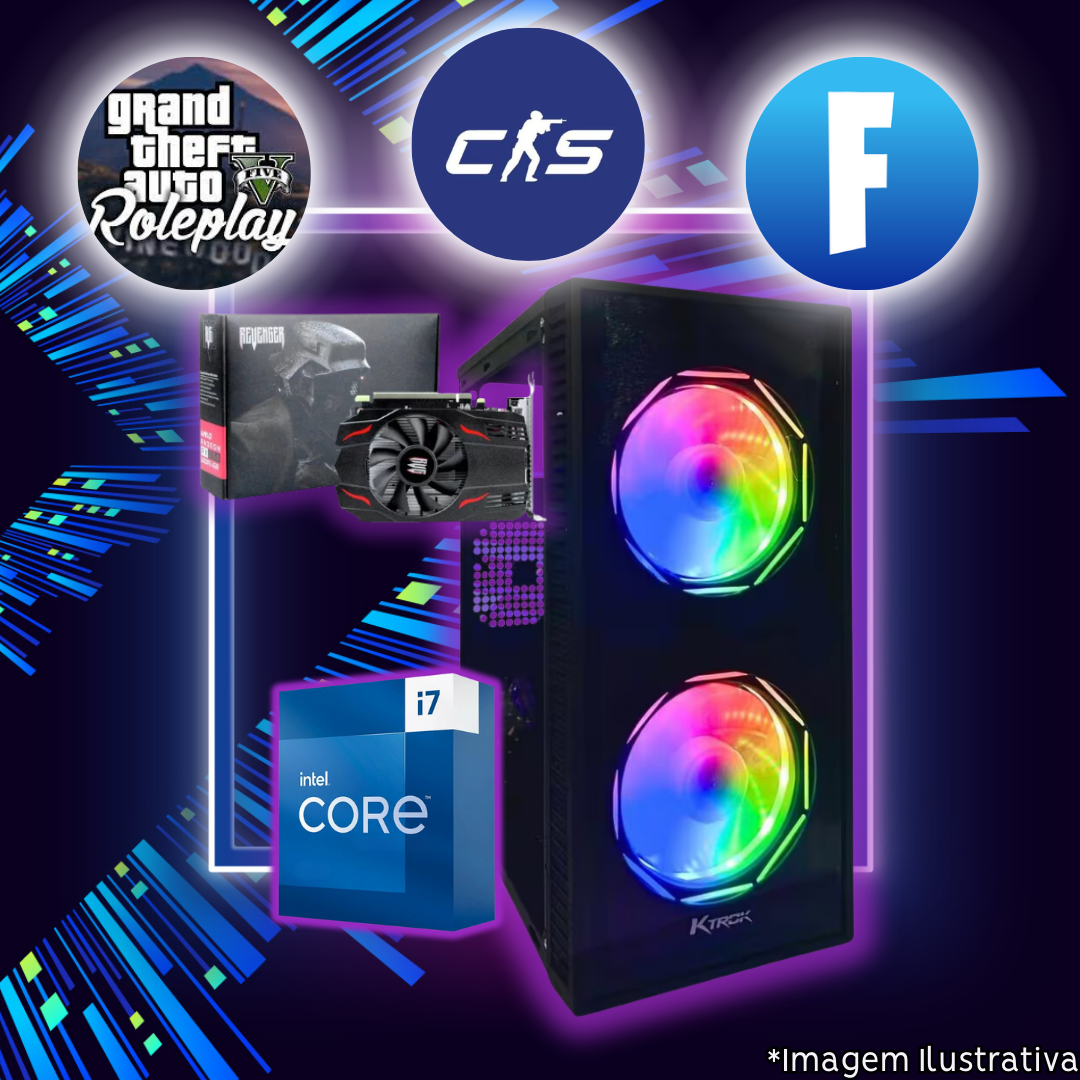
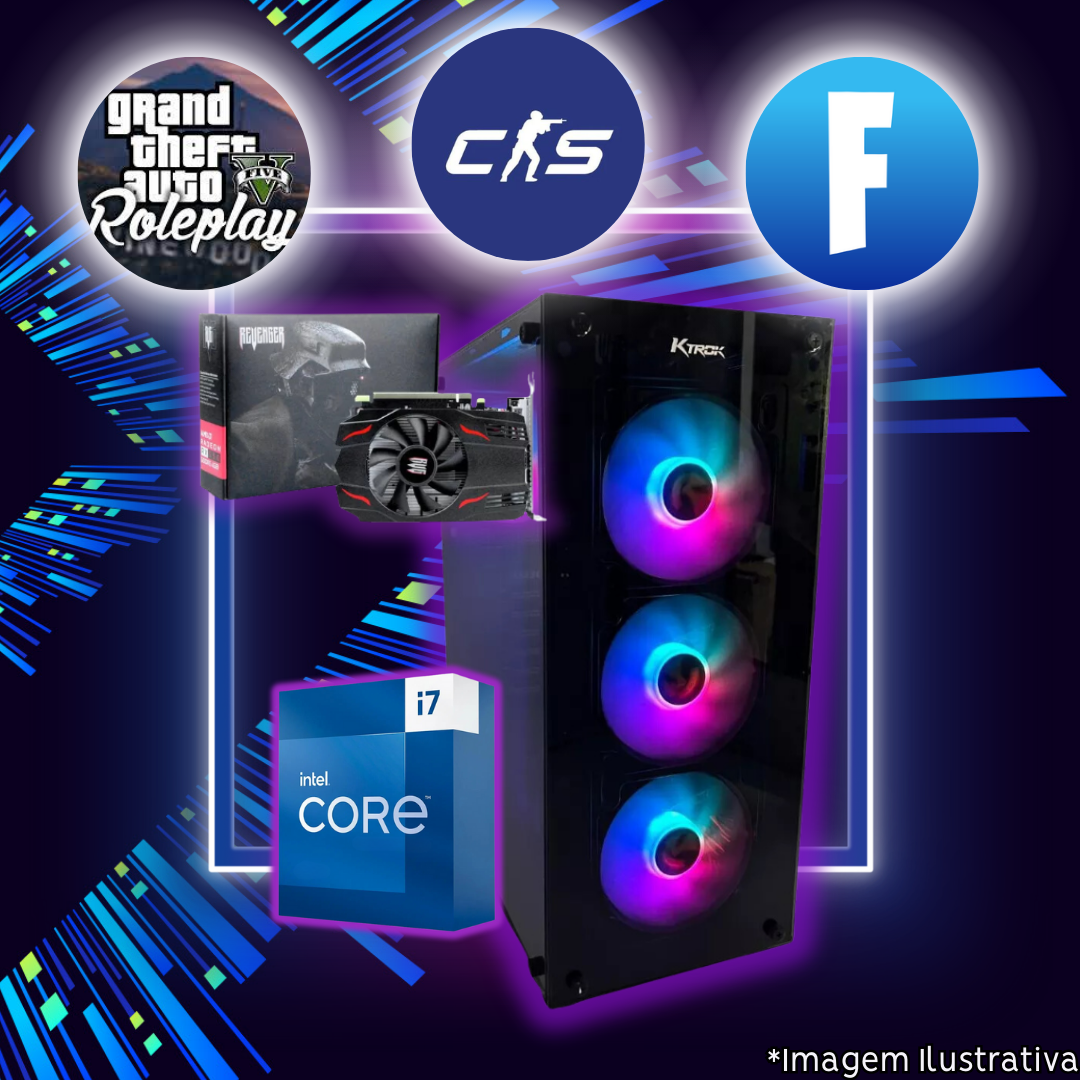
PC Intel Nº1 - Nº5 UPDATED

Changed region(s): [[0.3667, 0.2139, 0.825, 0.9778]]

diff --git a/src/routes/intel/+page.svelte b/src/routes/intel/+page.svelte
@@ -6,35 +6,35 @@
     {
       title: "Nº1 - (PC0002) PC GAMER R$1.190,00",
       image: "PC0002.png",
-      text: "*Máquina ideal para Jogos como:* \n  LEAGUE OF LEGENDS\n🌎 MINECRAFT\n🟥 ROBLOX\n\n*Processador:* I5 de 3ª Geração\n*Placa Mãe:* H61 (LGA 1155)\n*Memória RAM:* 1x8GB(8GB) DDR3\n*Armazenamento:* SSD 240GB\n*Gabinete:* GAMER K-TROK C/2FANS RGB\n*Fonte:* 500W\n\n*R$ 1.190,00* em até 10x sem juros!\n\n*Formas de Pagamento:*\n💳 Cartão - Débito à vista ou Crédito em até 10x *SEM JUROS*\n❖ Pix á Vista\n❌ NÃO aceitamos pagamento via boleto bancário\n❌ NÃO geramos link de pagamento\n\n",
+      text: "*Máquina ideal para Jogos como:* \n  LEAGUE OF LEGENDS\n🌎 MINECRAFT\n🟥 ROBLOX\n\n*Processador:* I5 de 3ª Geração\n*Placa Mãe:* H61 (LGA 1155)\n*Memória RAM:* 1x8GB(8GB) DDR3\n*Armazenamento:* SSD 240GB\n*Gabinete:* GAMER K-TROK C/4FANS RGB\n*Fonte:* 500W\n\n*R$ 1.190,00* em até 10x sem juros!\n\n*Formas de Pagamento:*\n💳 Cartão - Débito à vista ou Crédito em até 10x *SEM JUROS*\n❖ Pix á Vista\n❌ NÃO aceitamos pagamento via boleto bancário\n❌ NÃO geramos link de pagamento\n\n",
     },
 
     // R$1.590,00
     {
       title: "Nº2 - (PC0044) i5 3ª + GT 730",
       image: "PC0044.png",
-      text: "*Máquina ideal para Jogos como:* \n  ⚡VALORANT ( gráfico alto )\n💥 LEAGUE OF LEGENDS\n🌎 MINECRAFT\n🟥 ROBLOX\n🔫 FREE FIRE(Gráfico Medio)\n🐧 STRUMBLE GUYS\n\n*Processador:* I5 de 3ª Geração\n*Placa Mãe:* H61 (LGA 1155)\n*Memória RAM:* 2x8GB(16GB) DDR3\n*Armazenamento:* SSD 240GB\n*Placa de Vídeo:* GT 730 4GB\n*Gabinete:* GAMER K-TROK C/2FANS RGB\n*Fonte:* 500W\n\n*R$ 1.590,00* em até 10x sem juros!\n\n*Formas de Pagamento:*\n💳 Cartão - Débito à vista ou Crédito em até 10x *SEM JUROS*\n❖ Pix á Vista\n❌ NÃO aceitamos pagamento via boleto bancário\n❌ NÃO geramos link de pagamento\n\n",
+      text: "*Máquina ideal para Jogos como:* \n  ⚡VALORANT ( gráfico alto )\n💥 LEAGUE OF LEGENDS\n🌎 MINECRAFT\n🟥 ROBLOX\n🔫 FREE FIRE(Gráfico Medio)\n🐧 STRUMBLE GUYS\n\n*Processador:* I5 de 3ª Geração\n*Placa Mãe:* H61 (LGA 1155)\n*Memória RAM:* 2x8GB(16GB) DDR3\n*Armazenamento:* SSD 240GB\n*Placa de Vídeo:* GT 730 4GB\n*Gabinete:* GAMER K-TROK C/4FANS RGB\n*Fonte:* 500W\n\n*R$ 1.590,00* em até 10x sem juros!\n\n*Formas de Pagamento:*\n💳 Cartão - Débito à vista ou Crédito em até 10x *SEM JUROS*\n❖ Pix á Vista\n❌ NÃO aceitamos pagamento via boleto bancário\n❌ NÃO geramos link de pagamento\n\n",
     },
 
     // R$1.790,00
     {
       title: "Nº3 - (PC0016) i5 3ª + RX 550 - R$1.890,00",
       image: "PC0016.png",
-      text: "*Máquina ideal para Jogos como:* \n⚡VALORANT ( Gráficos alto )\n💥LEAGUE OF LEGENDS( Gráfico alto )\n🔫CS GO ( Gráfico Medio )\n🚔 GTA RP(Gráficos Médios/Baixos)\n🚚 Euro Truck Simulator 2(Gráficos medio/Baixos)\n🦙 FORTNITE(Gráficos Baixos / medio)\n6⃣ RAINBOW SIX SIEGE( Gráfico baixo )\n🔫 FREE FIRE (*Necessário conhecimento em uso e configuração de Emuladores*)\n\n*Processador:* I5 de 3ª Geração\n*Placa Mãe:* H61 (LGA 1155)\n*Memória RAM:* 2x8GB(16GB)\n*Placa de Vídeo:* RX 550 4GB\n*Armazenamento:* SSD 240GB\n*Gabinete:* GAMER K-TROK C/2FANS RGB\n*Fonte:* 500W\n\n*R$ 1.790,00* em até 10x sem juros!\n\n*Formas de Pagamento:*\n💳 Cartão - Débito à vista ou Crédito em até 10x *SEM JUROS*\n❖ Pix á Vista\n❌ NÃO aceitamos pagamento via boleto bancário\n❌ NÃO geramos link de pagamento\n\n",
+      text: "*Máquina ideal para Jogos como:* \n⚡VALORANT ( Gráficos alto )\n💥LEAGUE OF LEGENDS( Gráfico alto )\n🔫CS GO ( Gráfico Medio )\n🚔 GTA RP(Gráficos Médios/Baixos)\n🚚 Euro Truck Simulator 2(Gráficos medio/Baixos)\n🦙 FORTNITE(Gráficos Baixos / medio)\n6⃣ RAINBOW SIX SIEGE( Gráfico baixo )\n🔫 FREE FIRE (*Necessário conhecimento em uso e configuração de Emuladores*)\n\n*Processador:* I5 de 3ª Geração\n*Placa Mãe:* H61 (LGA 1155)\n*Memória RAM:* 2x8GB(16GB)\n*Placa de Vídeo:* RX 550 4GB\n*Armazenamento:* SSD 240GB\n*Gabinete:* GAMER K-TROK C/4FANS RGB\n*Fonte:* 500W\n\n*R$ 1.790,00* em até 10x sem juros!\n\n*Formas de Pagamento:*\n💳 Cartão - Débito à vista ou Crédito em até 10x *SEM JUROS*\n❖ Pix á Vista\n❌ NÃO aceitamos pagamento via boleto bancário\n❌ NÃO geramos link de pagamento\n\n",
     },
 
     // R$2.290,00
     {
       title: "Nº4 - (PC0020) i7 de 3ª + RX 550  - R$2.190,00",
       image: "PC0020.png",
-      text: "*Máquina ideal para Jogos como:* \n  LEAGUE OF LEGENDS\n🌎 MINECRAFT\n🟥 ROBLOX\n🚔 GTA RP\n🔫 CSGO/VALORANT\n🦙 FORTNITE\n\n*Processador:* I7 de 3ª Geração\n*Placa Mãe:* H61 (LGA 1155)\n*Memória RAM:* 2x8GB(16GB)\n*Air Cooler* RGB\n*Placa de Vídeo:* RX 550 4GB\n*Armazenamento:* SSD 240GB\n*Gabinete:* GAMER K-TROK C/2FANS RGB\n*Fonte:* 500W\n\n*R$ 2.290,00* em até 10x sem juros!\n\n*Formas de Pagamento:*\n💳 Cartão - Débito à vista ou Crédito em até 10x *SEM JUROS*\n❖ Pix á Vista\n❌ NÃO aceitamos pagamento via boleto bancário\n❌ NÃO geramos link de pagamento\n\n",
+      text: "*Máquina ideal para Jogos como:* \n  LEAGUE OF LEGENDS\n🌎 MINECRAFT\n🟥 ROBLOX\n🚔 GTA RP\n🔫 CSGO/VALORANT\n🦙 FORTNITE\n\n*Processador:* I7 de 3ª Geração\n*Placa Mãe:* H61 (LGA 1155)\n*Memória RAM:* 2x8GB(16GB)\n*Air Cooler* RGB\n*Placa de Vídeo:* RX 550 4GB\n*Armazenamento:* SSD 240GB\n*Gabinete:* GAMER K-TROK C/4FANS RGB\n*Fonte:* 500W\n\n*R$ 2.290,00* em até 10x sem juros!\n\n*Formas de Pagamento:*\n💳 Cartão - Débito à vista ou Crédito em até 10x *SEM JUROS*\n❖ Pix á Vista\n❌ NÃO aceitamos pagamento via boleto bancário\n❌ NÃO geramos link de pagamento\n\n",
     },
 
     // R$3.890
     {
       title: "Nº5 - (PC0040) i5-7500(7ªGEN) + RX 550",
       image: "PC0040.png",
-      text: "*Máquina ideal para Jogos como:* \n🌎 MINECRAFT\n🟥 ROBLOX\n🚔 GTA RP\n🔫 CSGO/VALORANT\n🦙 FORTNITE\n\n*Processador:* Processador:* I5-7500 (7ªGEN)\n*Placa Mãe:* H110\n*Memória RAM:* 2x8(16GB) DDR4\n*Placa de Vídeo:* RX 550 4GB\n*Armazenamento:* SSD 480GB\n*Gabinete:* K-TROK X/2 FANS RGB\n*Fonte:* 500W\n\n*R$ 2.990,00* em até 10x sem juros!\n\n*Formas de Pagamento:*\n💳 Cartão - Débito à vista ou Crédito em até 10x *SEM JUROS*\n❖ Pix á Vista\n❌ NÃO aceitamos pagamento via boleto bancário\n❌ NÃO geramos link de pagamento\n\n",
+      text: "*Máquina ideal para Jogos como:* \n🌎 MINECRAFT\n🟥 ROBLOX\n🚔 GTA RP\n🔫 CSGO/VALORANT\n🦙 FORTNITE\n\n*Processador:* Processador:* I5-7500 (7ªGEN)\n*Placa Mãe:* H110\n*Memória RAM:* 2x8(16GB) DDR4\n*Placa de Vídeo:* RX 550 4GB\n*Armazenamento:* SSD 480GB\n*Gabinete:* GAMER K-TROK C/4FANS RGB\n*Fonte:* 500W\n\n*R$ 2.990,00* em até 10x sem juros!\n\n*Formas de Pagamento:*\n💳 Cartão - Débito à vista ou Crédito em até 10x *SEM JUROS*\n❖ Pix á Vista\n❌ NÃO aceitamos pagamento via boleto bancário\n❌ NÃO geramos link de pagamento\n\n",
     },
 
     // R$4.290,00
